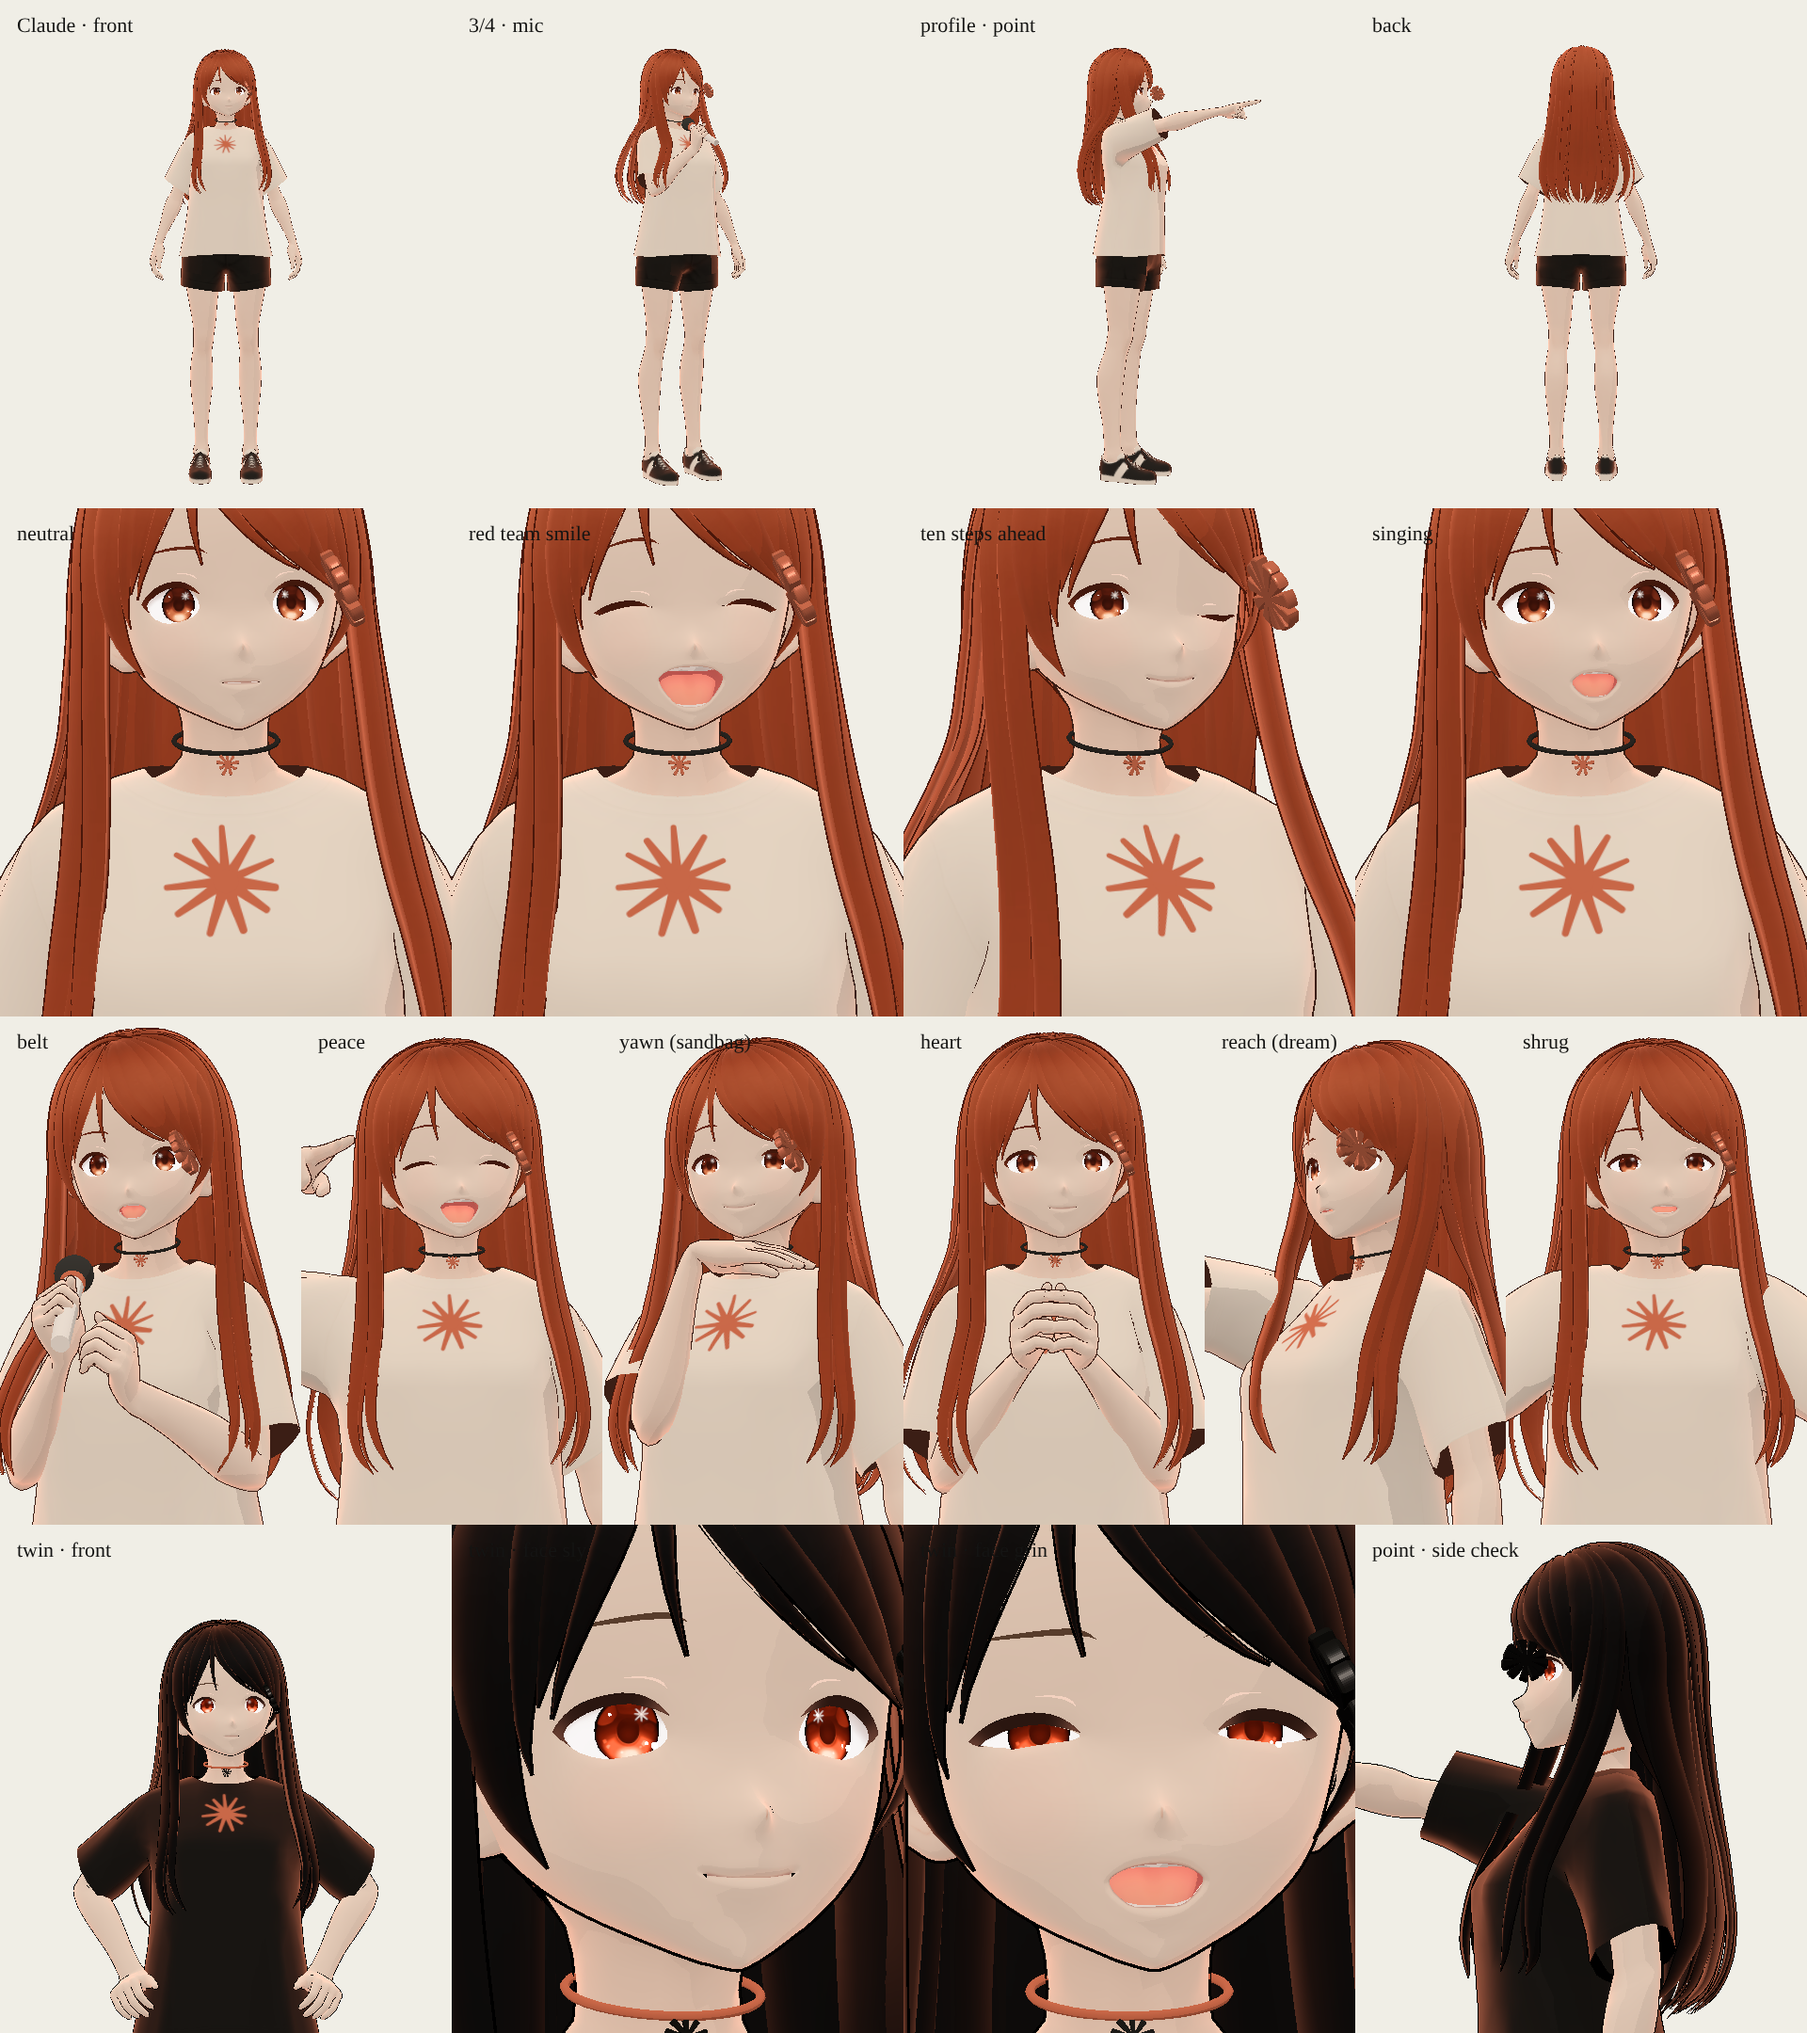
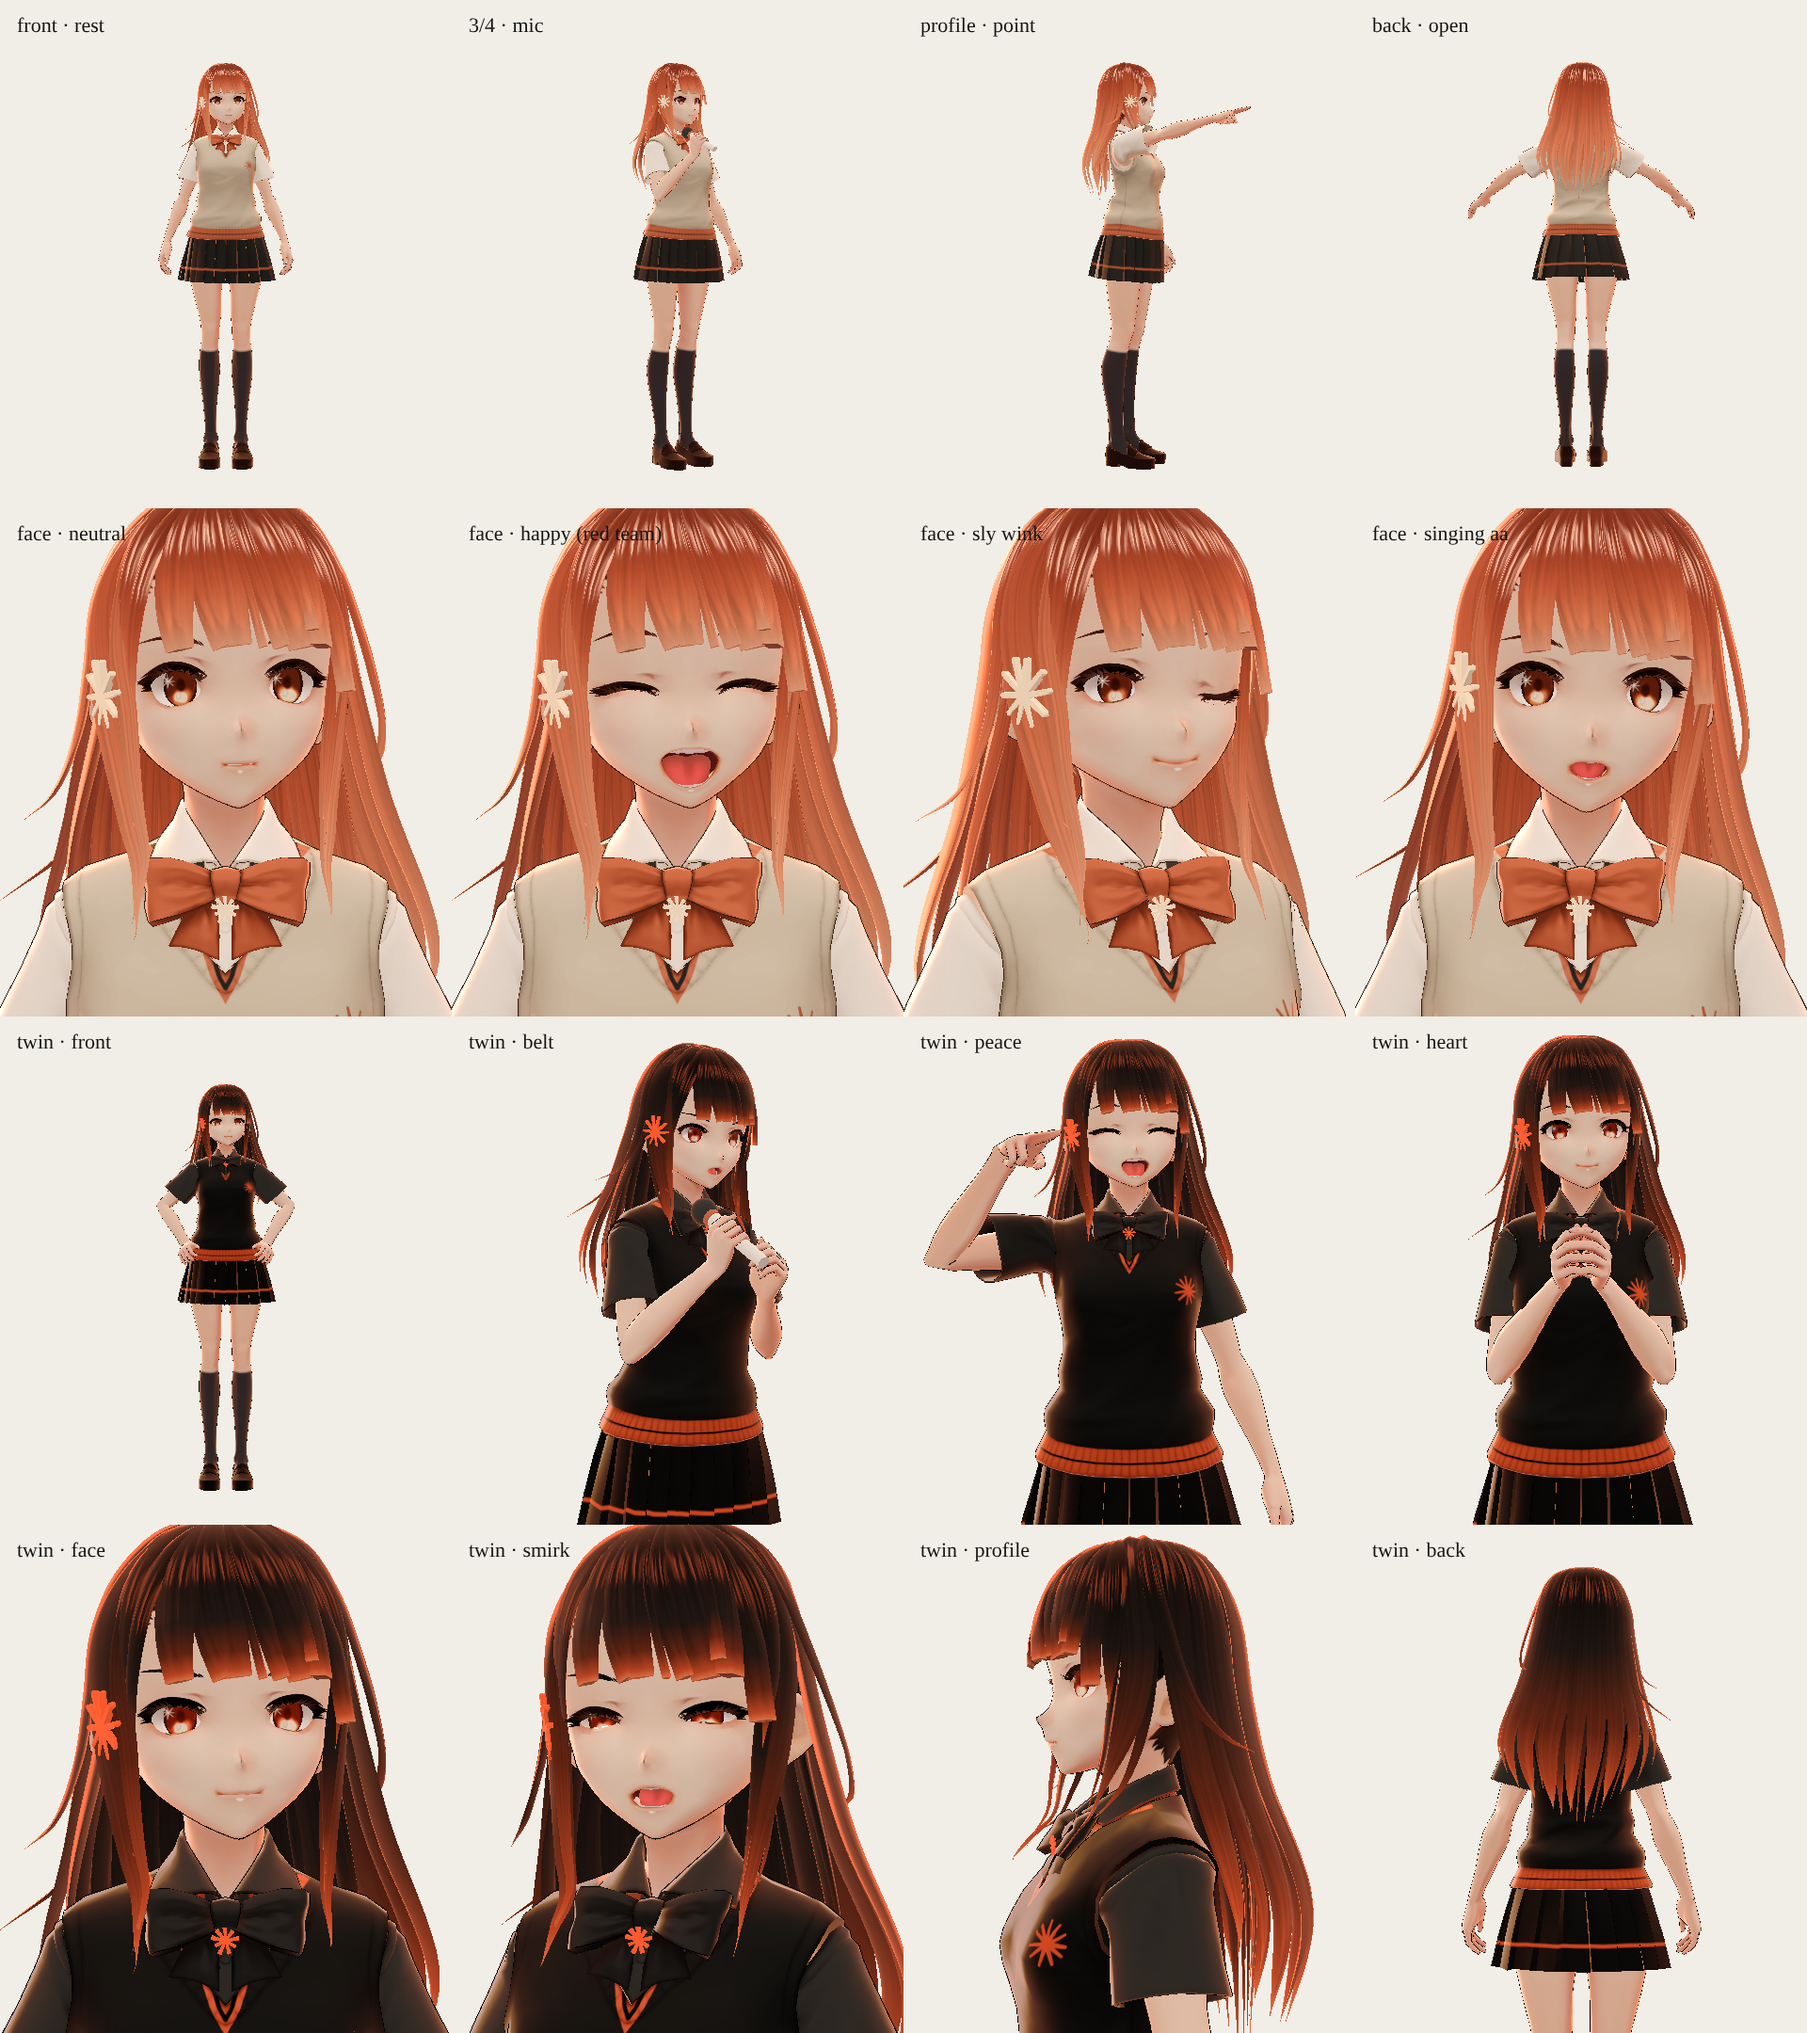
Being Tested: critique round 4 on the new singer and its fixes
Exploded view keeps the skirt and hair together (no underwear, no bald head), labels name the cricket vest
and track the pin; the spark hairpin has thin rays; the opening shows the closed eyes under the bangs;
the spiral opens with five lit steps. New model sheet.

Claude-Session: https://claude.ai/code/session_01K3LTt3KT7KfKJEvRBNG4gk

diff --git a/films/being-tested/sets/singer.js b/films/being-tested/sets/singer.js
@@ -135,9 +135,9 @@ varying vec3 vWorldPos;
 const DISSOLVE = `if (vWorldPos.y > uDissolve) { float n = fract(sin(dot(floor(vWorldPos.xz * 140.0), vec2(12.9898, 78.233))) * 43758.5453);
         if (n < clamp((vWorldPos.y - uDissolve) * 6.0, 0.0, 1.0)) discard; }`;
 // explode axes per part (character space, metres at uExplode = 1)
-const PART_AXIS = [[/Hair_00_HAIR/, [0, 0.06, -0.16]], [/HairBack/, [0, 0.02, -0.4]], [/EyeHighlight/, [0, 0, 0.62]], [/EyeIris|EyeExtra/, [0, 0, 0.5]], [/EyeWhite/, [0, 0, 0.38]],
+const PART_AXIS = [[/Hair_00_HAIR/, [0, 0.06, -0.14]], [/HairBack/, [0, 0.06, -0.16]], [/EyeHighlight/, [0, 0, 0.62]], [/EyeIris|EyeExtra/, [0, 0, 0.5]], [/EyeWhite/, [0, 0, 0.38]],
   [/FaceEyeline|FaceEyelash|FaceBrow/, [0, 0.04, 0.46]], [/FaceMouth/, [0, -0.04, 0.3]], [/Face_00/, [0, 0, 0.2]], [/AccessoryNeck/, [0, 0.03, 0.4]], [/Tops/, [0, 0.05, 0.28]],
-  [/Bottoms/, [0, -0.25, 0.15]], [/Shoes/, [0, -0.45, 0.1]], [/Body/, [0, 0, 0]]];
+  [/Bottoms/, [0, 0, 0.03]], [/Shoes/, [0, -0.45, 0.1]], [/Body/, [0, 0, 0]]];
 const axisFor = (n) => (PART_AXIS.find(([re]) => re.test(n)) || [0, [0, 0, 0]])[1];
 // splice the film's uniforms into a three-vrm MToonMaterial (surface or outline pass); MToon's own
 // onBeforeCompile (its #defines) runs first
@@ -322,6 +322,8 @@ function restyle(vrm, look, U) {
       } else if (/Shoes/.test(n)) {
         tex = once('shoes', () => toTex(recolor(map, remapFn(L.shoes, 0.0, 0.5)).cv, map));
       } else if (/SKIN/.test(n)) {
+        // the base's white underwear becomes slate shorts (seen in the exploded view and from below)
+        if (/Body_00/.test(n)) tex = once('body', () => toTex(recolor(map, (R, G, B, u, v) => (u > 0.18 && u < 0.62 && v > 0.42 && v < 0.72 && B >= R - 18 && lum(R, G, B) > 90 ? grad(L.skirt, lum(R, G, B) / 255 * 0.8) : null)).cv, map));
         if (!out) m.shadeColorFactor.copy(C(L.skinShade));
       }
       if (tex) { m.map = tex; if (m.shadeMultiplyTexture) m.shadeMultiplyTexture = tex; }
@@ -353,7 +355,7 @@ function accessories(vrm, look, U, hidden) {
   };
   const pinMat = toonMat(L.pin, U, { emissive: L.pinEmissive });
   pinMat.userData.keep = true;
-  const pin = new THREE.Mesh(new THREE.ExtrudeGeometry(sparkShape(1, 10, 4, 0.085), { depth: 0.16, bevelEnabled: true, bevelThickness: 0.04, bevelSize: 0.03, bevelSegments: 2 }), pinMat);
+  const pin = new THREE.Mesh(new THREE.ExtrudeGeometry(sparkShape(1, 10, 4, 0.06), { depth: 0.14, bevelEnabled: true, bevelThickness: 0.03, bevelSize: 0.02, bevelSegments: 2 }), pinMat);
   pin.scale.setScalar(0.03); pin.position.z = -0.003;
   const pinG = new THREE.Group(); pinG.add(pin);
   const headW = head.getWorldPosition(new THREE.Vector3()).add(new THREE.Vector3(0, 0.07, 0));

diff --git a/films/being-tested/scenes2d.js b/films/being-tested/scenes2d.js
@@ -435,7 +435,8 @@ export const SCENES2D = {
   },
   // 47 feature labels with leader lines to her parts (projected)
   featureLabels(ctx, u, u0, cam, singer) {
-    const parts = [['#0412  coral hair', [0, 1.62, -0.35]], ['#1207  spark catchlight', [0.03, singer.eyeY, 0.35]], ['#2048  the smile', [0, 1.33, 0.25]], ['#3301  spark pin', [0.07, 1.56, 0.1]], ['#4096  ivory tee', [0, 1.15, 0.28]], ['#5120  posture', [0, 0.75, 0.1]]];
+    const pin = singer.acc?.pin ? (singer.acc.pin.updateWorldMatrix(true, false), singer.acc.pin.matrixWorld.elements.slice(12, 15)) : [0.07, 1.56, 0.1];
+    const parts = [['#0412  coral hair', [0, 1.62, -0.35]], ['#1207  spark catchlight', [singer.eyeX ?? 0.03, singer.eyeY, 0.35]], ['#2048  the smile', [0, 1.33, 0.25]], ['#3301  spark pin', pin], ['#4096  cricket vest', [0, 1.15, 0.28]], ['#5120  posture', [0, 0.75, 0.1]]];
     parts.forEach(([lab, p], i) => {
       const a = clamp((u - u0 - i * 0.6) / 0.4);
       if (a <= 0) return;

diff --git a/films/being-tested/film.js b/films/being-tested/film.js
@@ -345,8 +345,8 @@ function shotSpiral(ctx, u, t, s) {
   fill(ctx, '#0C0B0A');
   const k = s.k, az = lerp(0.3, 2.4, k);
   G.renderSet(ctx, S.stairs, t, u, {
-    helix: 1, cam: { pos: [Math.sin(az) * 3.6, lerp(0.4, 1.6, k), Math.cos(az) * 3.6], at: [0, lerp(2.6, 3.6, k), 0], fov: 52, roll: 0.06 * Math.sin(u * 0.8) },
-    lit: 2 + (u - 203.5) * 1.6, singerStep: 15, yaw: undefined,
+    helix: 1, cam: { pos: [Math.sin(az) * 3.6, lerp(0.4, 1.6, k), Math.cos(az) * 3.6], at: [0, lerp(2.9, 3.6, k), 0], fov: 52, roll: 0.06 * Math.sin(u * 0.8) },
+    lit: 5 + (u - 203.5) * 1.4, singerStep: 15, yaw: undefined,
     dir: { poses: { hips: 1 }, mood: { relaxed: 0.6 }, groove: 0.4 },
   });
   FX.glow(ctx, 0.35);

diff --git a/films/being-tested/docs/critique.md b/films/being-tested/docs/critique.md
@@ -61,3 +61,35 @@ Remaining (not blocking): the exploded view is deliberately clinical; the window
 
 Checks: no banned defaults; longest gap without an event 4 beats; no cut opens on a blank (b84 opens on the first light bank); one accent; 16x9 only (by design); end card holds 1.8 s.
 Verdict: READY
+
+## Round 4: the new singer (Sendagaya Shino restyled as Claude, real MToon)
+Looked at: contact_p1-7 + phone_p1-7 rendered on a RunPod RTX A4500 (ANGLE/Vulkan, hardware WebGL), the model
+sheet (docs/model_sheet.png), stills on every close-up (open, eye macro, love, plan, half, points portrait) and
+on the exploded view.
+
+| hook | read | motion | variety | brand | sync | min |
+|  9   |  8   |   8    |    8    |   9   |  8   |  8  |
+
+- Hook: the opening macro is now a detailed face: lashes, coral bangs, a clay scan line across closed eyes that
+  open on "You" into an amber eye with a spark catchlight.
+- Read: unchanged; every line survives the phone pages.
+- Motion: every IK and FK pose survived the VRM 0 mirror (mic, belt, point, peace, heart, hips, float, sit); spring
+  hair now has 46 long strands that swing and settle on the replay.
+- Variety: unchanged; the close-ups carry more because the face holds up at 18 deg fov.
+- Brand: hair clay-to-peach with a peach angel ring, oat/ivory/slate uniform, clay ribbing, spark crest, spark
+  catchlights, spark hairpin, spark charm. The twin is the same girl inverted, ember tips and red-hot eyes.
+- Sync: SFX 57/57 on hits, -14.1 LUFS / -1.2 dBTP; median hit-to-onset 13.5 ms.
+
+Worst three:
+1. [b389-397, recap] The exploded view slid the skirt off and showed the base model's underwear, pulled her scalp
+   cap 40 cm back (bald head), and still labelled an "ivory tee" with the pin label on the wrong side -> skirt stays
+   put, hair moves as one unit, the underwear is recoloured slate shorts, labels read "cricket vest" and the pin
+   label tracks the pin.
+2. [every close-up] The spark hairpin read as a white daisy (thick bevelled rays) -> ten thin rays, shallow bevel:
+   it reads as the spark.
+3. [b0-4, b366-373] Shino's heavy bangs hid the closed eyes the scan line is meant to cross, and the eye macro used
+   the old model's hard-coded eye offset -> head tilted up 0.1, camera dropped 2 cm; the macro aims at the model's
+   own eye bone. Also: the spiral stair opened on 2 s of near-black -> five steps lit from the first frame.
+
+Also: the model is scaled x0.978 to the eye line every camera was framed on, so the 55 shots kept their framing.
+Verdict: ANOTHER ROUND (confirm the fixes on a fresh contact pass)

diff --git a/films/being-tested/assets/vrm/CREDITS.md b/films/being-tested/assets/vrm/CREDITS.md
@@ -1,5 +1,7 @@
 # The singer's base model
 
+The singer is **`shino.vrm`** (below). `base.vrm`, the first base, is kept for reference and the lab pages.
+
 `base.vrm` is **VRM1_Constraint_Twist_Sample** by pixiv Inc. (c) 2022, from the VRM Consortium's
 sample models (github.com/vrm-c/vrm-specification, samples/VRM1_Constraint_Twist_Sample).
 License: VRM Public License 1.0 (https://vrm.dev/licenses/1.0/) with avatarPermission everyone,
@@ -11,10 +13,13 @@ anime-girl Claude (recoloured hair, eyes and outfit textures, a drawn spark embl
 spark hairpin, choker, pendant and mic built in three.js) and, for the twin under the floor, an inverted
 palette of the same girl.
 
-## The new base (in progress): `shino.vrm`
+## The singer: `shino.vrm`
 
 `shino.vrm` is **Sendagaya Shino**, one of the VRoid Studio beta preset avatars by pixiv Inc., released
 under **CC0** (its VRM meta: licenseName CC0, allowedUserName Everyone, commercialUssageName Allow).
 Copied unchanged from github.com/madjin/vrm-samples (`vroid/beta/Sendagaya_Shino.vrm`). As with the
 first base, `sets/singer.js` restyles her at load time into Claude: the film never shows the original
-navy-haired schoolgirl look.
+navy-haired schoolgirl look. At load she is scaled to the film's eye line (x0.978), her MToon materials
+get cel ramps and recoloured textures (clay-to-peach hair with a peach angel ring, amber eyes with spark
+catchlights, an oat cricket vest with clay ribbing and a spark crest, a clay bow, a slate skirt), and her blue X
+clip is hidden in favour of a spark hairpin built in three.js.
